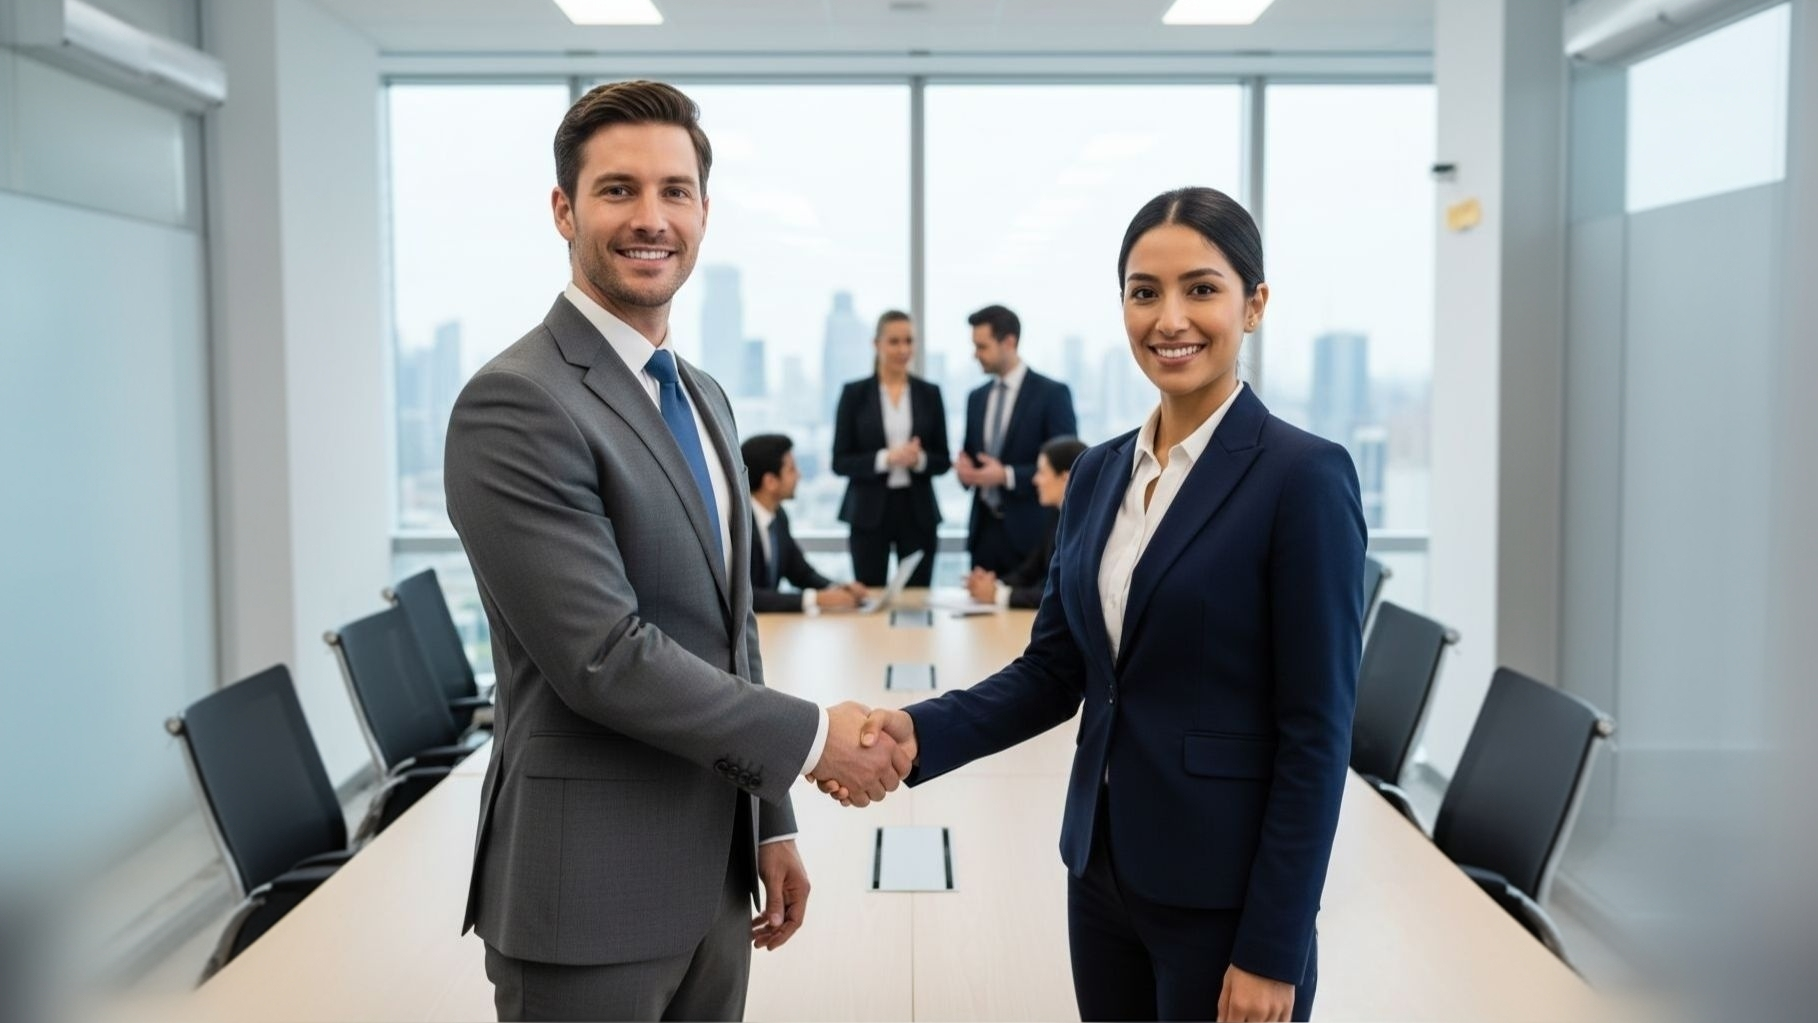
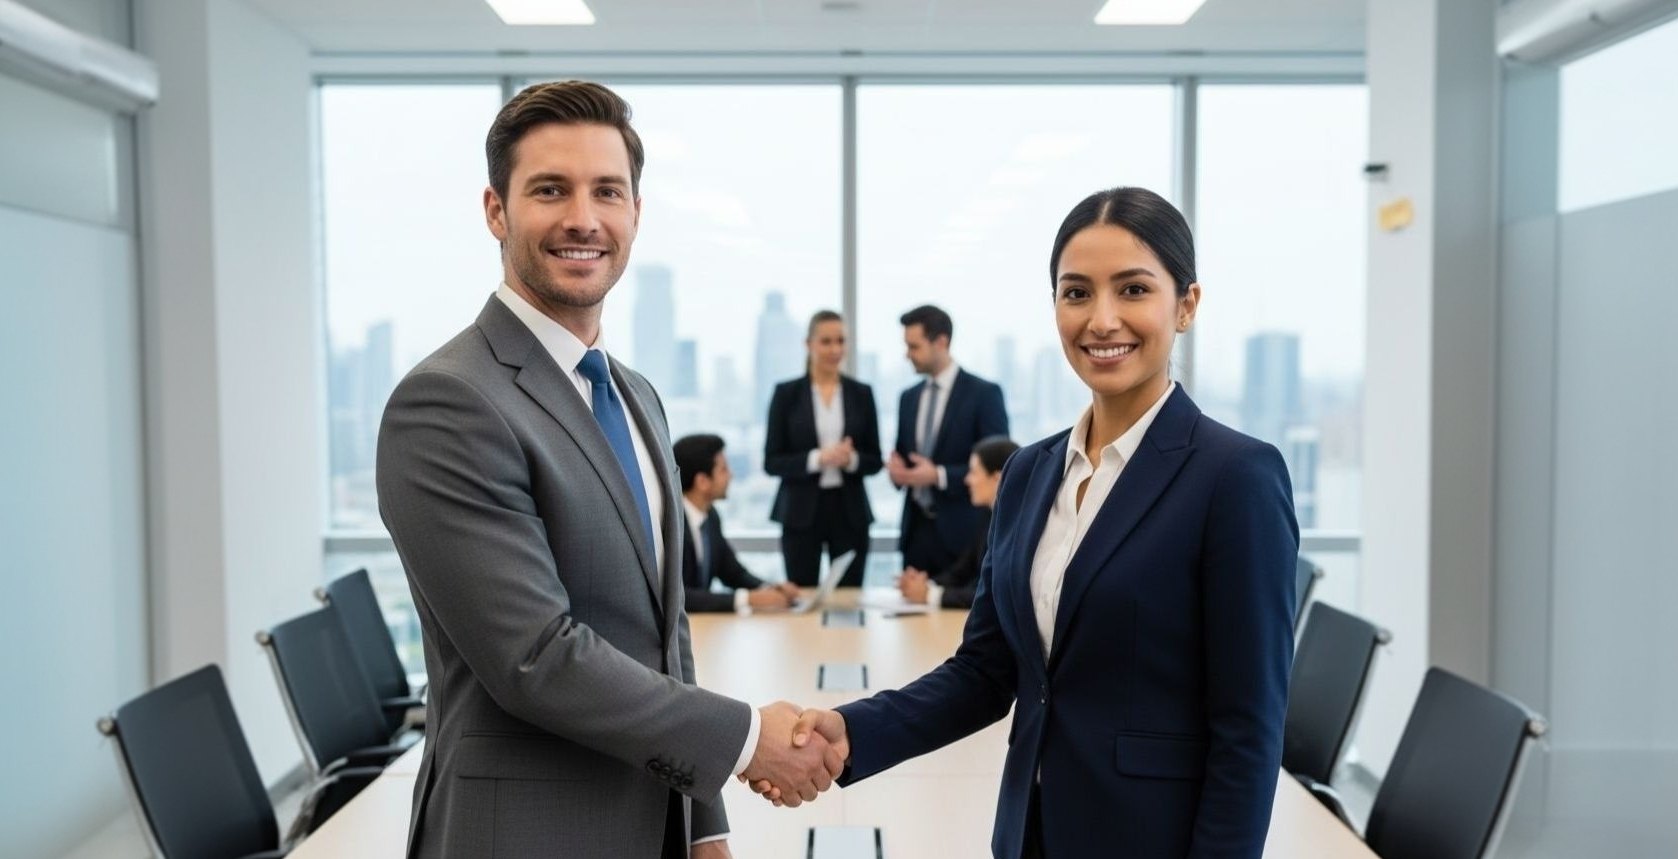
hero sections adjusted

diff --git a/cmn/components/Navbar.tsx b/cmn/components/Navbar.tsx
@@ -26,12 +26,8 @@ export default function Navbar() {
           />
         </Link>
 
-<<<<<<< HEAD
 
         {/* DESKTOP NAVBAR */}
-=======
-        {/* DESKTOP NAVBAR - Hidden on tablet and mobile */}
->>>>>>> 16f452b5ffa2b4ee6487271cb5689e0b58efe0d9
         <div className="hidden lg:flex flex-1">
           <nav
             onMouseLeave={() => setActiveMenu(null)}
@@ -105,16 +101,11 @@ export default function Navbar() {
           </nav>
         </div>
 
-<<<<<<< HEAD
         {/* MOBILE MENU BUTTON */}
         <button
           className="lg:hidden block text-white ml-4 pr-4 sm:pr-6"
           onClick={() => setMobileOpen(!mobileOpen)}
         >
-=======
-        {/* MOBILE MENU BUTTON - Show on tablet (md) and mobile, hide on desktop (lg) */}
-        <button className="lg:hidden block text-white ml-4" onClick={() => setMobileOpen(!mobileOpen)}>
->>>>>>> 16f452b5ffa2b4ee6487271cb5689e0b58efe0d9
           <div className="space-y-1 transition-all">
             <span className="block w-6 h-0.5 bg-white"></span>
             <span className="block w-6 h-0.5 bg-white"></span>

diff --git a/cmn/components/Clients/ClientsHero.tsx b/cmn/components/Clients/ClientsHero.tsx
@@ -4,7 +4,7 @@ import { motion } from "framer-motion";
 import heroImage from "../../public/images/hero/clients.png";
 export default function HeroSection() {
   return (
-    <section className="relative w-full h-[60vh] sm:h-[70vh] md:h-[75vh] lg:h-[80vh] flex items-center overflow-hidden">
+<section className="relative w-full h-[100dvh] flex items-center overflow-hidden">
 
       {/* Background Image */}
       <motion.div

diff --git a/cmn/components/Contact/Contact_Hero.tsx b/cmn/components/Contact/Contact_Hero.tsx
@@ -5,7 +5,7 @@ import heroImage from "../../public/images/hero/heroContact.png";
 
 export default function HeroSection() {
   return (
-    <section className="relative w-full h-[60vh] sm:h-[70vh] md:h-[75vh] lg:h-[80vh] flex items-center overflow-hidden">
+    <section className="relative w-full h-[100dvh] flex items-center overflow-hidden">
 
       {/* Background Image */}
       <motion.div

diff --git a/cmn/components/tools/ToolsHeroSection.tsx b/cmn/components/tools/ToolsHeroSection.tsx
@@ -5,7 +5,7 @@ import heroImage from "../../public/images/hero/toolsHero.png";
 
 export default function HeroSection() {
   return (
-    <section className="relative w-full h-[60vh] sm:h-[70vh] md:h-[75vh] lg:h-[80vh] flex items-center overflow-hidden">
+    <section className="relative w-full h-[100dvh] flex items-center overflow-hidden">
 
       {/* Background Image */}
       <motion.div

diff --git a/cmn/components/AC-Ref/refrigeratorHero.tsx b/cmn/components/AC-Ref/refrigeratorHero.tsx
@@ -5,7 +5,7 @@ import heroImage from "../../public/images/hero/heroAC.png";
 
 export default function HeroSection() {
   return (
-    <section className="relative w-full h-[60vh] sm:h-[70vh] md:h-[75vh] lg:h-[80vh] flex items-center overflow-hidden">
+    <section className="relative w-full h-[100dvh] flex items-center overflow-hidden">
 
       {/* Background Image */}
       <motion.div

diff --git a/cmn/components/HomeComponents/HeroSection.tsx b/cmn/components/HomeComponents/HeroSection.tsx
@@ -6,7 +6,7 @@ import heroImage from "../../public/images/hero/heroHome.png"
 
 export default function HeroSection() {
   return (
-    <section className="relative w-full h-[90vh] overflow-hidden rounded-br-[120px]">
+    <section className="relative w-full h-screen overflow-hidden rounded-br-[120px]">
 
       {/* Background Image */}
       <motion.div

diff --git a/cmn/components/AboutUsComponents/HeroSection.tsx b/cmn/components/AboutUsComponents/HeroSection.tsx
@@ -5,7 +5,7 @@ import heroImage from "../../public/images/hero/about.png";
 
 export default function HeroSection() {
   return (
-    <section className="relative w-full h-[80vh] flex items-center overflow-hidden">
+    <section className="relative w-full h-[100dvh] flex items-center overflow-hidden">
 
       {/* Background Image */}
       <motion.div
